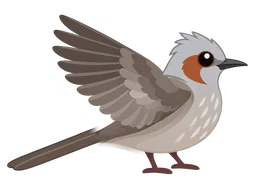
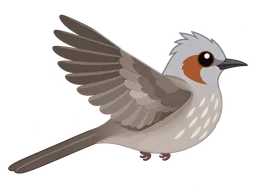
Motion art 05 complete: 4-frame movement for 14 animals (56 frames)
From forest-sprites-motion-05 (102 final assets; the 46 already in are
unchanged), each on its species' own base crop and scale. The game's existing
timing fits them as delivered:
- hops: frog 0.9 s, rabbit 0.56 s, weasel 0.48 s, and now the chipmunk bounds
  (0.42 s) on its 4 new frames; crouch, push off, air, reach, crouch
- wingbeats: tit, bulbul, goshawk flap through 4 wing frames with legs tucked
  (0.32 s), lifting off as before
- walks and crawls: hedgehog, caterpillar, chafer, ground beetle, spider,
  snail (slower), snake through 4 frames (0.44 s)

Import notes: chafer move-3 sits 5 px (of 192) above the base ground line (a
raised leg); tit move-2/3 read bluer with the wings spread. The frog's air
frame keeps its hind legs folded (not stretched out); reported to redo.
The chipmunk's optional upright "observe" picture is not connected (no such
state in the game yet).

Claude-Session: https://claude.ai/code/session_01Ud4QQMvq7uLiFqxm6WgoYT

diff --git a/js/ui/species-frames.js b/js/ui/species-frames.js
@@ -1,5 +1,5 @@
 // Painted pictures on hand, written by tools/build_species_raster.py --import
 // from assets/images/species-raster/manifest.json. Do not edit by hand: put the
 // pictures in and run the tool (docs/SPECIES_MOTION_SPEC.md).
-export const paintedFrames={"aphid":{"move":2,"eat":2},"bulbul":{"move":2,"eat":3},"caterpillar":{"move":2,"eat":2},"chipmunk":{"move":2,"eat":3},"earthworm":{"eat":2},"field-mouse":{"move":2,"eat":3},"frog":{"move":2,"eat":3},"goshawk":{"move":2,"eat":3},"grasshopper":{"move":4,"eat":2},"grasshopper:nymph":{"move":4,"eat":2},"ladybird":{"move":2,"eat":2},"rabbit":{"move":2,"eat":3},"snail":{"move":2,"eat":2},"snake":{"move":2,"eat":3,"sense":2},"spider":{"move":2,"eat":2},"tit":{"move":2,"eat":3},"weasel":{"move":2,"eat":3}};
+export const paintedFrames={"aphid":{"move":4,"eat":2},"bulbul":{"move":4,"eat":3},"caterpillar":{"move":4,"eat":2},"chipmunk":{"move":4,"eat":3},"earthworm":{"eat":2},"field-mouse":{"move":4,"eat":3},"frog":{"move":4,"eat":3},"goshawk":{"move":4,"eat":3},"grasshopper":{"move":4,"eat":2},"grasshopper:nymph":{"move":4,"eat":2},"ladybird":{"move":4,"eat":2},"rabbit":{"move":4,"eat":3},"snail":{"move":4,"eat":2},"snake":{"move":4,"eat":3,"sense":2},"spider":{"move":4,"eat":2},"tit":{"move":4,"eat":3},"weasel":{"move":4,"eat":3}};
 export const paintedStages=["grass:sprout","grasshopper:nymph","mushroom:mycelium"];

diff --git a/docs/SPECIES_MOTION_SPEC.md b/docs/SPECIES_MOTION_SPEC.md
@@ -38,19 +38,19 @@
 | 식물 `idle`, `leaf-turn` | 1.2초 (9초마다 바뀜) | 강아지풀만 |
 | 식물 `growth`, 분해자 `active` | 프레임 0 고정 | 실제로 자라거나 분해할 때 |
 
-## 지금 들어 있는 그림 (2026-11-02, forest-sprites-motion-04)
+## 지금 들어 있는 그림 (2026-11-03, forest-sprites-motion-05 완료본 102장)
 
 | 상태 | 들어 있는 것 | 게임에서 보이는 모습 |
 | --- | --- | --- |
-| 먹기 2장 | 참개구리, 멧토끼, 다람쥐, 고슴도치, 솔나방 애벌레, 청동풍뎅이, 명주달팽이, 무당거미, 홍단딱정벌레, 박새, 직박구리, 참매, 족제비, 참지렁이 | 먹는 동안만 0.6초마다 한 번 (달팽이는 2.5배 느리게) |
-| 혀 날름 2장 (`sense`) | 유혈목이 | 배달된 이름은 eat였지만 먹는 동작이 아니라 냄새 맡기라서, 쉬는 3.2초마다 끝의 0.8초 동안만 보여요. 먹을 때는 나오지 않아요 |
-| 이동 2장 | 참개구리·멧토끼·족제비 | 2장 도약: 땅에서는 0, 공중에서는 1 |
-| 이동 2장 | 박새·직박구리·참매 | 날갯짓하며 날기 |
-| 이동 2장 | 다람쥐(걷는 그림), 고슴도치, 애벌레, 곤충, 달팽이, 거미, 뱀 | 땅에서 걷기·기어가기 |
-| 성장 단계 | 강아지풀 새싹, 버섯 균사체 | 성체 그림과 같은 변환이라 성체보다 작게 보여요 |
-| 이동 4장 | 방아깨비 성체 | 4장 도약 (그대로) |
+| 이동 4장 · 도약 | 방아깨비(성체·약충), 참개구리, 멧토끼, 다람쥐, 족제비 | 웅크리기 → 박차기 → 공중 → 착지 준비. 종마다 시간·높이가 달라요(`hopTimings`) |
+| 이동 4장 · 날갯짓 | 박새, 직박구리, 참매 | 다리를 접고 날갯짓하며 떠서 날기(0.32초) |
+| 이동 4장 · 걷기 | 고슴도치, 애벌레, 청동풍뎅이, 홍단딱정벌레, 무당거미, 명주달팽이, 유혈목이 | 땅에서 0.44초 걸음(달팽이 1.1초) |
+| 먹기 3장 | 참개구리, 멧토끼, 다람쥐, 고슴도치, 족제비, 박새, 직박구리, 참매, 유혈목이 | 먹는 동안 0.6초 |
+| 먹기 2장 | 방아깨비(성체·약충), 애벌레, 청동풍뎅이, 홍단딱정벌레, 무당거미, 명주달팽이, 참지렁이 | 먹는 동안 0.6초(달팽이 1.5초) |
+| 혀 날름 2장 (`sense`) | 유혈목이 | 쉬는 3.2초마다 끝의 0.8초 동안만. 먹을 때는 나오지 않아요 |
+| 성장 단계 | 방아깨비 약충, 강아지풀 새싹, 버섯 균사체 | 성체 그림과 같은 변환이라 성체보다 작게 보여요 |
 
-아래 표의 4장·3장 기준이 앞으로 받을 목표예요. 장수가 늘어나면 넣기만 하면 그대로 바뀌어요.
+아직 연결하지 않은 것: 다람쥐 '세운 관찰 자세' 1장(`extras/`). 게임에 그 상태가 아직 없어요.
 
 ## 2. 종별 규격표
 
